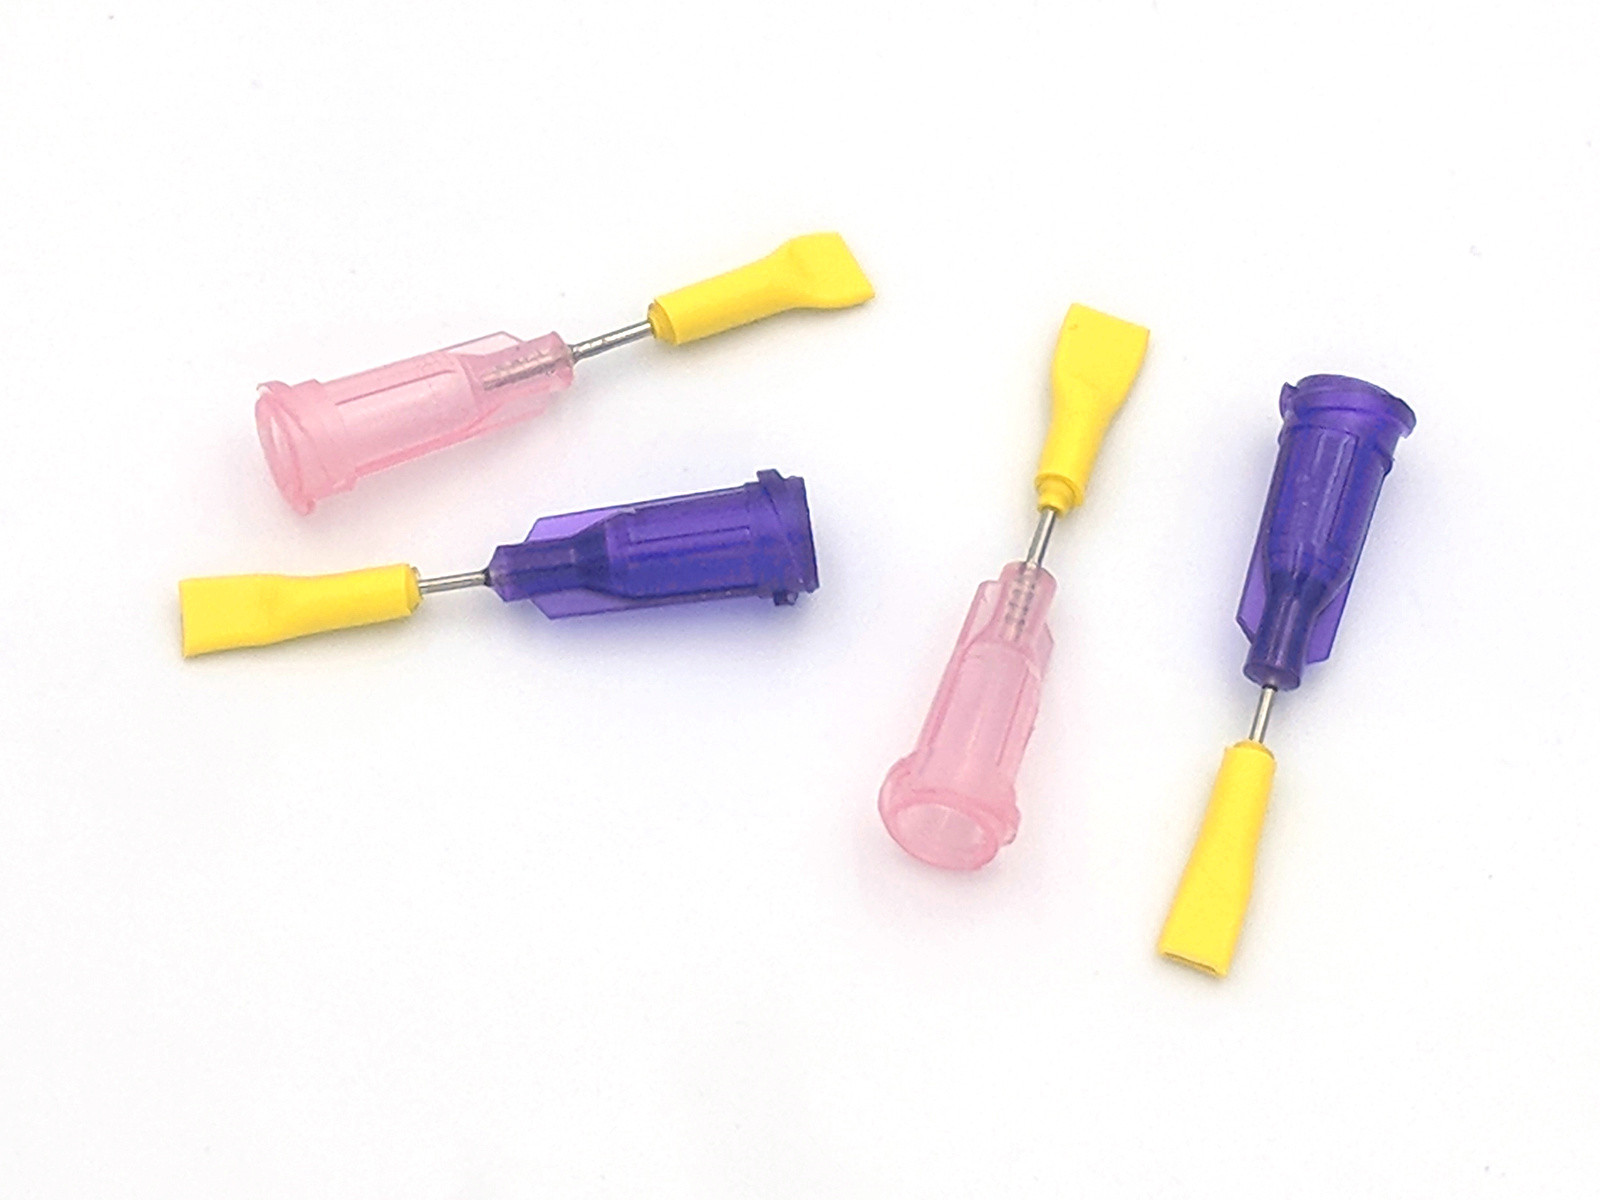
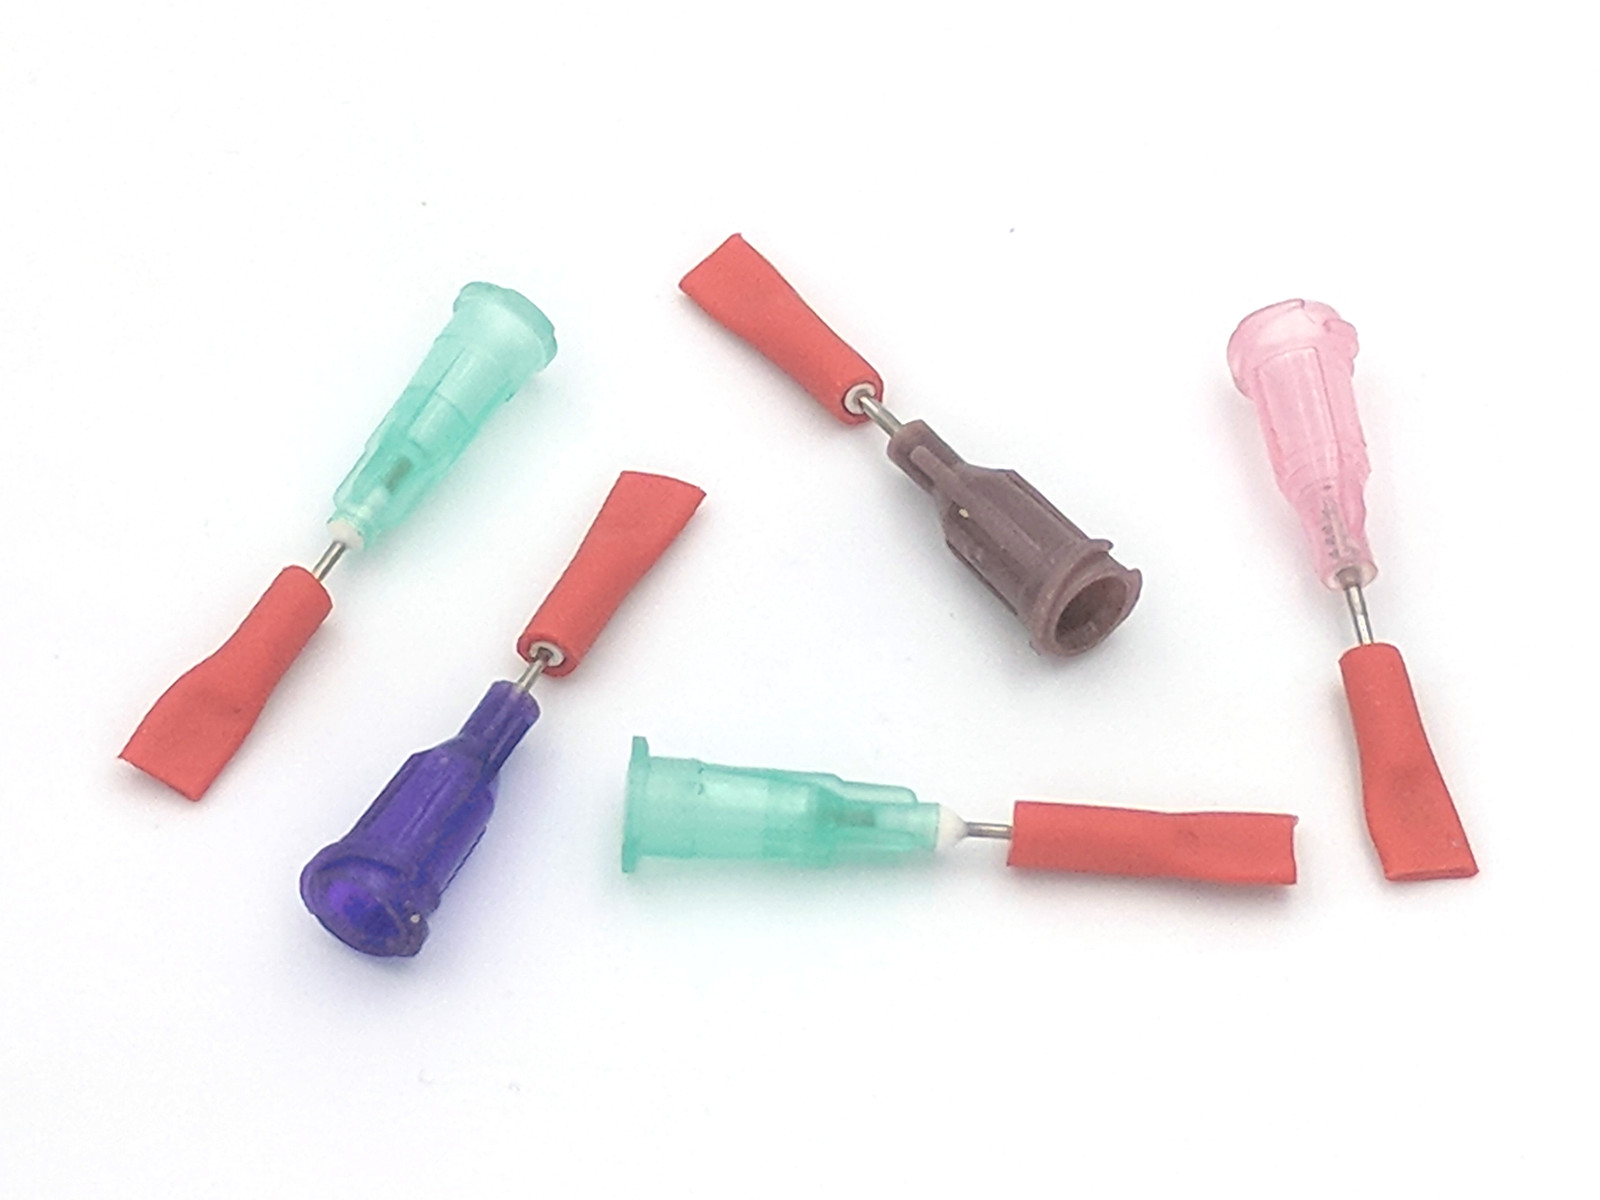
doc: use silicone tubes for needle caps

Changed region(s): [[0.0625, 0.185, 0.9375, 0.8325]]

diff --git a/doc/assembly.md b/doc/assembly.md
@@ -25,8 +25,8 @@ paste, low temp paste, flux).
 6 | [22 AWG wire](https://www.aliexpress.com/item/32854919883.html) | SMT stencil positioning & motor/syringe supports mount.
 7 | [Heat shrink tube 35mm](https://www.aliexpress.com/item/32791427710.html) | Motor mount / electronics protection.
 8 | [Cable ties 150-200mm](https://www.aliexpress.com/item/32807062474.html) | Syringe mount. 100mm enough for all syringes except 10cc. Width 2.5-3.0mm.
-9 | [Heat shrink tube 1.0mm, 1.5mm, 2.0mm](https://www.aliexpress.com/item/32859645890.html) | Needle caps, inner layer.
-10 | [Heat shrink tube 1:3 with glue, 2.4mm, 3.2mm](https://www.aliexpress.com/item/32859645890.html) | Needle caps, outer layer.
+9 | [Silicone heat shrink tube 0.8mm, 1.0mm, 1.5mm](https://atopelec.aliexpress.com/store/group/Silicone-Heat-Shrink-Tubing/118669_505069419.html) | Needle caps, inner layer.
+10 | [Heat shrink tube 1:4 with glue, 4mm](https://www.aliexpress.com/item/32787521306.html) | Needle caps, outer layer.
 11 | [Syringes](https://www.aliexpress.com/item/32920861566.html) | 1cc recommended for soldering paste with max precision. 3cc - acceptable. 10cc - for fluxes when precision not critical, and for refill.
 12 | [Needles](https://www.aliexpress.com/item/32256297497.html) | Needles choice from syringe set is too small. Buy separate set.
 13 | [Micro USB silicon cable](https://www.aliexpress.com/item/32858516897.html) | Very soft cable strongly advised for convenience.
@@ -112,16 +112,15 @@ TBD
 It's important to protect soldering paste from drying while not used. Here is
 simple recipe of needle caps. You will need 2 heat shrink tubes:
 
-- Small tube, 1.5mm with 1:3 ratio
-- Bigger tube, 3mm, with glue layer & 1:3 ratio
+- Small silicone tube. They have small shrink ratio (1.7:1 only), so buy several
+  sizes to fit all 0.8/1.0/1.5mm.
+- Bigger tube, 4mm, with glue layer & 1:4 ratio.
 
-First, shrink small tube to needle and cut it at needle end. Then shrink bigger
-one and squeeze the end. See result:
+First, shrink 10mm of silicone tube at needle edge. Then shrink 15-20mm of
+bigger tube and squeeze the end. Take off and cut the ends for accurate look.
+See result:
 
 [![Needle caps](images/needle_caps.jpg)](images/needle_caps.jpg)
-
-Optionally, add a drop of glycerol for additional safety. You can vary approach,
-use 1:2 ratio tubes and so on. But principle is the same.
 
 
 ## The end :)
